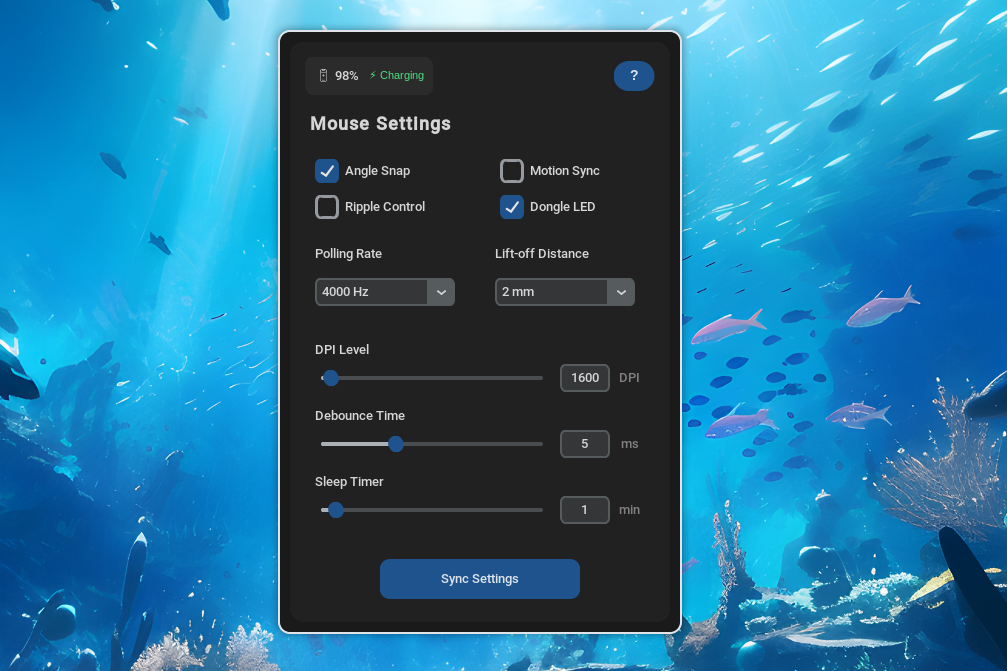
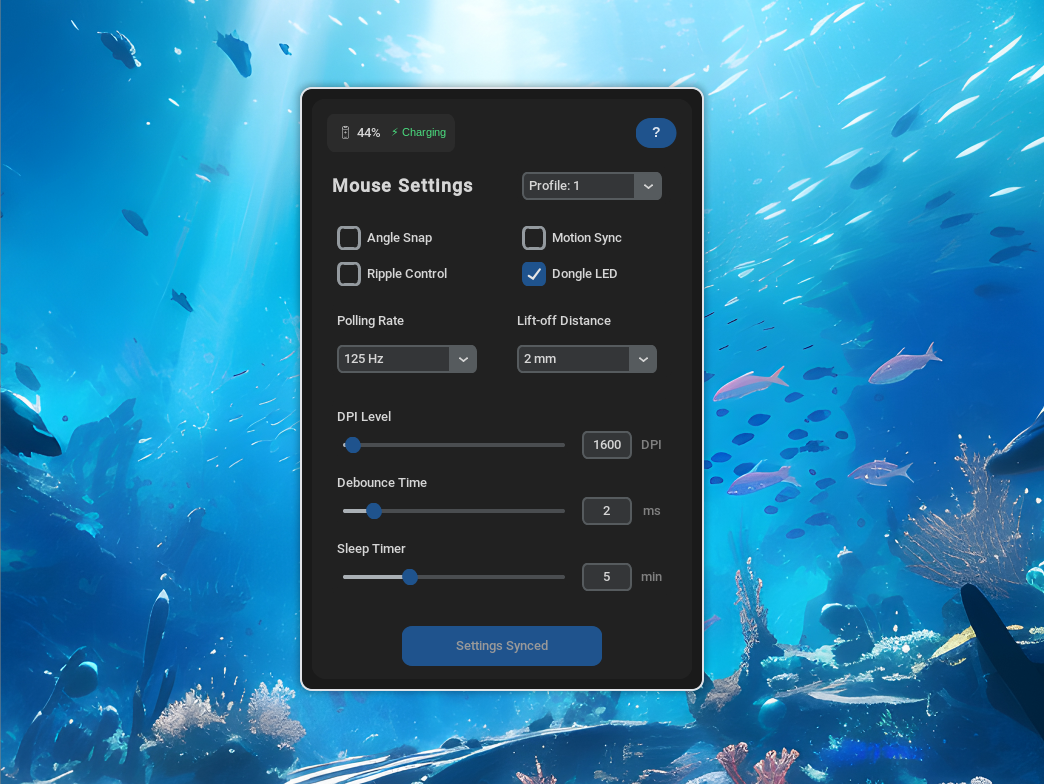
Added 'No Device Errors' and updated to pixel art, fixed bugs on windows version

diff --git a/main.py b/main.py
@@ -1,12 +1,12 @@
 import os
 import sys
-import traceback
 
 if sys.platform == 'win32':
     # Add the hid_api.dll File
-    dll_path = os.path.dirname(os.path.abspath(__file__))
+    dll_path = os.getcwd()
     os.add_dll_directory(dll_path)
 
+import traceback
 import customtkinter as ctk
 from gui.widgets import MainPage, SplashScreen
 
@@ -60,6 +60,13 @@ i.e There is no reason this program shouldn't work as intended although not all 
 Unsupported features will be greyed out.
 
 Click Exit to Close the program or Continue to resume.
+"""
+
+DEVICE_NOT_FOUND_MESSAGE = """
+No Device was found check you have the mouse in dongle mode and it is plugged in properly, alternativly try plugging the mouse into your
+computer directly, with a USB-C cable.
+
+Also ensure your device is on the supported devices list: https://github.com/TadhgOCo/OpenMouseControls/README.md
 """
 
 ctk.set_appearance_mode("dark")
@@ -199,7 +206,7 @@ class App(ctk.CTk):
                 try:
                     self.quit()
                 finally:
-                    exit(1)
+                    sys.exit(1)
 
         self.fw_window = ctk.CTkToplevel(self)
         self.fw_window.title("OpenMouseControl - ERROR")
@@ -219,7 +226,8 @@ class App(ctk.CTk):
         messages = {
             "No premissions": NO_PREMISSION_MESSAGE,
             "No device found": NO_DEVICE_FOUND_MESSAGE,
-            "Device NOT supported" : DEVICE_NOT_SUPPORTED
+            "Device NOT supported" : DEVICE_NOT_SUPPORTED,
+            "No Device" : DEVICE_NOT_FOUND_MESSAGE
         }
         
         # dict.get(key, default)
@@ -237,7 +245,9 @@ class App(ctk.CTk):
         ).pack(side="bottom", pady=20)
 
 
-        self.fw_window.grab_set()
+        if not fatal:
+            self.fw_window.grab_set()
+
         self.wait_window(self.fw_window)
 
 

diff --git a/gui/widgets.py b/gui/widgets.py
@@ -156,7 +156,7 @@ class SplashScreen(ctk.CTkFrame):
         self.img = ctk.CTkImage(
             light_image=img,
             dark_image=img,
-            size=(183, 239),
+            size=(310, 310),
         )
 
         self.img_btn = ctk.CTkButton(
@@ -192,13 +192,16 @@ class SplashScreen(ctk.CTkFrame):
 
     def spin_wait(self, interval=100, setup=False):
         if not setup:
-            if not mouse_hid.check_perms():
-                mouse_hid.install_perms()
-                self.after(interval, None)
-                
+            if mouse_hid.check_device():
                 if not mouse_hid.check_perms():
-                    self.master.open_error_dialog("No Premissions", fatal=True)
-                    self.master.destroy()
+                    mouse_hid.install_perms()
+                    self.after(interval, None)
+                    
+                    if not mouse_hid.check_perms():
+                        self.master.open_error_dialog("No Premissions", fatal=True)
+                        self.master.destroy()
+            else:
+                self.master.open_error_dialog("No Device", fatal=True)
 
             self.output = [None]
             self.ConnectingThread = threading.Thread(target=mouse_hid.find_device, args=(self.output,))

diff --git a/src/mouse_hid/protocal.py b/src/mouse_hid/protocal.py
@@ -33,7 +33,7 @@ def send_command(device : hid.Device, packet : bytes, NoGetFeature : bool = Fals
         response = device.get_feature_report(0x02, 65)
         if sys.platform == "win32":
             # When running on windows remove the initial byte of overhead
-            response = response[0:]
+            response = response[1:]
 
         if response[0] != 0xA1:
             for _ in range(5):
@@ -44,7 +44,7 @@ def send_command(device : hid.Device, packet : bytes, NoGetFeature : bool = Fals
                     response = device.get_feature_report(0x02, 65)
                     time.sleep(0.06)
 
-                    if sys.platform == "win32": response = response[0:]
+                    if sys.platform == "win32": response = response[1:]
                 else:
                     break
 
@@ -56,7 +56,7 @@ def send_command(device : hid.Device, packet : bytes, NoGetFeature : bool = Fals
                     response = device.get_feature_report(0x02, 65)
                     time.sleep(0.06)
 
-                    if sys.platform == "win32": response = response[0:]
+                    if sys.platform == "win32": response = response[1:]
                 else:
                     break
 

diff --git a/src/mouse_hid/premissions.py b/src/mouse_hid/premissions.py
@@ -31,4 +31,20 @@ def check_perms():
             return True
         except OSError:
             pass
+
     return False
+
+def check_device():
+    found_matching_vendor = False
+    for d in hid.enumerate():
+        if d["vendor_id"] not in TARGET_VENDORS:
+            continue
+        try:
+            found_matching_vendor = True
+            h = hid.Device(path=d["path"])
+            h.close()
+            return True
+        except OSError:
+            pass
+
+    return found_matching_vendor

diff --git a/src/mouse_hid/__init__.py b/src/mouse_hid/__init__.py
@@ -4,7 +4,7 @@ __version__ = "0.1.0"
 
 from .device import find_device, SUFFIX_LIST
 from .protocal import properties
-from .premissions import install_perms, check_perms
+from .premissions import install_perms, check_perms, check_device
 
 __all__ = [
     "find_device",
@@ -13,5 +13,6 @@ __all__ = [
     "properties",
     "install_perms",
     "check_perms",
+    "check_device",
     "SUFFIX_LIST"
 ]

diff --git a/README.md b/README.md
@@ -10,7 +10,8 @@ This project involves reverse-engineered protocols. Use at your own risk. I am n
 > [!CAUTION]
 > | Model(s)           | Support Level | Notes                                  |
 > |--------------------|---------------|----------------------------------------|
-> | R6 / R11 Ultra     | 🟢 Supported        | Tested on R6, Not Tested on R11 Ultra |
+> | R6 / R11 Ultra     | 🟢 Supported        |        Tested on R6              |
+> | R11 Ultra          | 🔴 NOT Supported    |      Uses v3 Protocal            |
 > | X6 / X8 / X11      | 🔴 NOT Supported    |      Uses v3 Protocal            |
 > | R1 / R5 Ultra      | 🔴 NOT Supported    |      Uses v3 Protocal            |
 > | X3 / G / A         | 🔴 NOT Supported    |      Uses v3 Protocal            |
@@ -36,10 +37,7 @@ This project involves reverse-engineered protocols. Use at your own risk. I am n
 ### Known Issues & Limitations:
 We are tracking a few bugs as we head toward a stable v1.0.0.
 
-- **Sync Latency:** When clicking the Sync button, the application may appear to "freeze" for a few seconds (1-2 on Windows, 3-5 on Linux) before the syncing process begins. The app remains functional and will resume normally once the sync ends. A fix for this UI thread blocking is planned for the next update.
-
-- **No Profile Switching:** This feature is planned for the next update.
-- **No Button Reassignment:** This feature is also planned although it is secondary.
+- **No Button Reassignment:** This feature is planned.
 - **No Macro Creation:** This Feature is not currently planned.
 - **No Bluetooth Connectivity:** This Feature is not currently planned.
 ---
